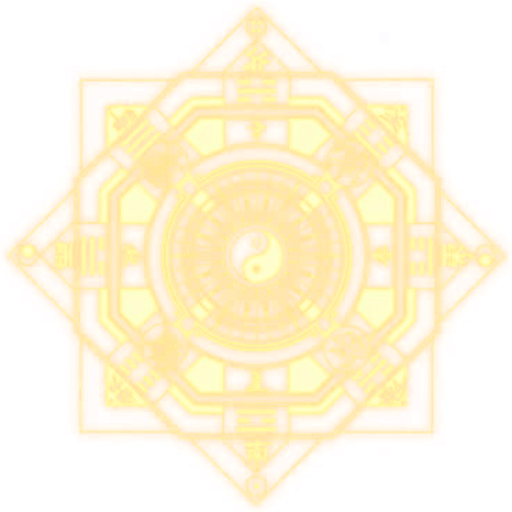
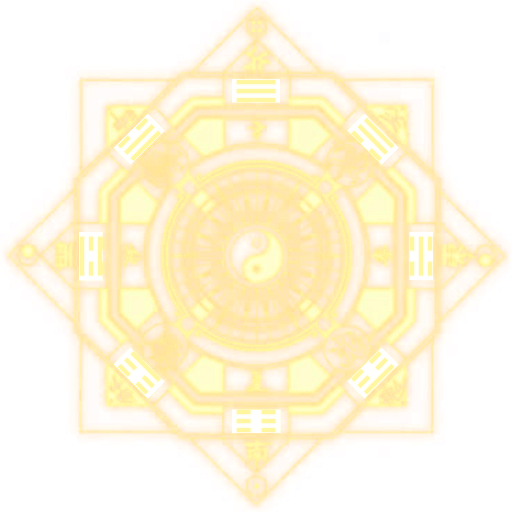
art: trận pháp Vạn Kiếm — xếp lại 8 quẻ bát quái vòng ngoài theo Tiên Thiên Bát Quái (Càn Tốn Khảm Cấn Khôn Chấn Ly Đoài) (chờ duyệt)
Claude-Session: https://claude.ai/code/session_014A94BHnyL4tu48AS77QbVM

diff --git a/src/vfxlab/main.ts b/src/vfxlab/main.ts
@@ -46,8 +46,8 @@ class LabScene extends Phaser.Scene {
     this.load.spritesheet(PHAP_TUONG.avatar, '/vfx/phap_tuong_avatar.png?v=2', { frameWidth: PHAP_TUONG.avW, frameHeight: PHAP_TUONG.avH });
     this.load.image(PHAP_TUONG.palm, '/vfx/phap_tuong_palm.png?v=5');
     for (const [k, f] of Object.entries(QI_BLADE)) this.load.image(f, `/vfx/qi_blade_${k}.png?v=3`);
-    this.load.image(SWORD_ARRAY.n, '/vfx/sword_array.png?v=1');
-    this.load.image(SWORD_ARRAY.aw, '/vfx/sword_array_aw.png?v=1');
+    this.load.image(SWORD_ARRAY.n, '/vfx/sword_array.png?v=2');
+    this.load.image(SWORD_ARRAY.aw, '/vfx/sword_array_aw.png?v=2');
     this.load.image(FIRE_SLASH.key, '/vfx/fire_slash.png?v=5');
     this.load.spritesheet(SPIRIT_ORB, '/vfx/spirit_orb.png?v=1', { frameWidth: 96, frameHeight: 96 });
     for (const [n, key] of Object.entries(BURN_TEX)) this.load.spritesheet(key, `/vfx/burn_${n}.png?v=2`, { frameWidth: 256, frameHeight: 201 });

diff --git a/tools/art/sword_array.py b/tools/art/sword_array.py
@@ -9,6 +9,7 @@ Game đặt ảnh trong container nén dọc (mặt đất) và xoay ảnh bên 
 import os
 import numpy as np
 from PIL import Image
+from scipy import ndimage
 
 HERE = os.path.dirname(os.path.abspath(__file__))
 ROOT = os.path.dirname(os.path.dirname(HERE))
@@ -27,9 +28,58 @@ def conv(src, dst):
     rgb = a / np.maximum(A[..., None], 1e-3)
     img = Image.fromarray(np.dstack([np.clip(rgb, 0, 255), A * 255]).astype(np.uint8), 'RGBA')
     img = img.crop((int(cx - r), int(cy - r), int(cx + r), int(cy + r))).resize((N, N), Image.LANCZOS)
+    img = rearrange_trigrams(img)
     img.save(os.path.join(VFX, dst))
     print(dst, img.size)
     return img
+
+
+# ---- 8 quẻ bát quái vòng ngoài: xếp lại theo Tiên Thiên Bát Quái (ảnh tools/art/ref/bat_quai_order.jpg), theo chiều kim
+#      đồng hồ từ trên: Càn, Tốn, Khảm, Cấn, Khôn, Chấn, Ly, Đoài. Mỗi quẻ 3 hào, hào 1 (dưới) ở PHÍA TRONG (gần tâm).
+#      1 = hào liền, 0 = hào đứt; thứ tự (trong, giữa, ngoài).
+TRIGRAMS = [(1, 1, 1), (0, 1, 1), (0, 1, 0), (0, 0, 1), (0, 0, 0), (1, 0, 0), (1, 0, 1), (1, 1, 0)]
+# hình học đo trên ảnh 512 (8 ô giống hệt nhau, chỉ xoay 45°): bán kính 3 hào (trong → ngoài), nửa dài hào, nửa dày,
+# nửa khe hào đứt, vùng nền tối của ô quẻ
+R_LINES = (156.0, 165.0, 174.0)
+HALF_L, HALF_T, HALF_GAP = 19.5, 2.2, 5.5
+CLEAR_R, CLEAR_S = (153.5, 177.0), 24.0
+
+
+def rearrange_trigrams(img):
+    a = np.array(img).astype(float)
+    H, W = a.shape[:2]
+    SS = 4
+    yy, xx = np.mgrid[0:H * SS, 0:W * SS].astype(float) / SS
+    C = 256.0
+    # màu hào lấy từ chính ảnh (điểm sáng nhất trong ô quẻ trên cùng)
+    top = a[78:104, 236:278]
+    bright = top[top[..., 3] > 220][:, :3]
+    bar_rgb = np.median(bright, axis=0) if len(bright) else np.array([255, 255, 255.])
+    out = a.copy()
+    for k, tri in enumerate(TRIGRAMS):
+        th = np.radians(45 * k)
+        ux, uy = np.sin(th), -np.cos(th)                                      # hướng ra ngoài
+        tx, ty = np.cos(th), np.sin(th)                                       # hướng dọc hào
+        r = (xx - C) * ux + (yy - C) * uy
+        s_ = (xx - C) * tx + (yy - C) * ty
+        clear = (r > CLEAR_R[0]) & (r < CLEAR_R[1]) & (np.abs(s_) < CLEAR_S)
+        cov = np.zeros_like(r)
+        for rr, solid in zip(R_LINES, tri):
+            dr = np.abs(r - rr) - HALF_T
+            ds = np.abs(s_) - HALF_L
+            d = np.maximum(dr, ds)
+            if not solid:
+                d = np.maximum(d, HALF_GAP - np.abs(s_))
+            cov = np.maximum(cov, np.clip(0.5 - d / 0.7, 0, 1))
+        cl = clear.reshape(H, SS, W, SS).mean((1, 3))
+        cv = cov.reshape(H, SS, W, SS).mean((1, 3))
+        glow = ndimage.gaussian_filter(cv, 1.2) * 0.6
+        m = cl > 0.5
+        out[m, 3] = 0                                                         # xoá hào cũ (nền ô quẻ là đen = trong suốt)
+        A = np.clip(np.maximum(cv, glow), 0, 1) * (cl > 0.01)
+        out[..., :3] = np.where(A[..., None] > 0, bar_rgb, out[..., :3])
+        out[..., 3] = np.maximum(out[..., 3], A * 255)
+    return Image.fromarray(np.clip(out, 0, 255).astype(np.uint8), 'RGBA')
 
 
 def main():
